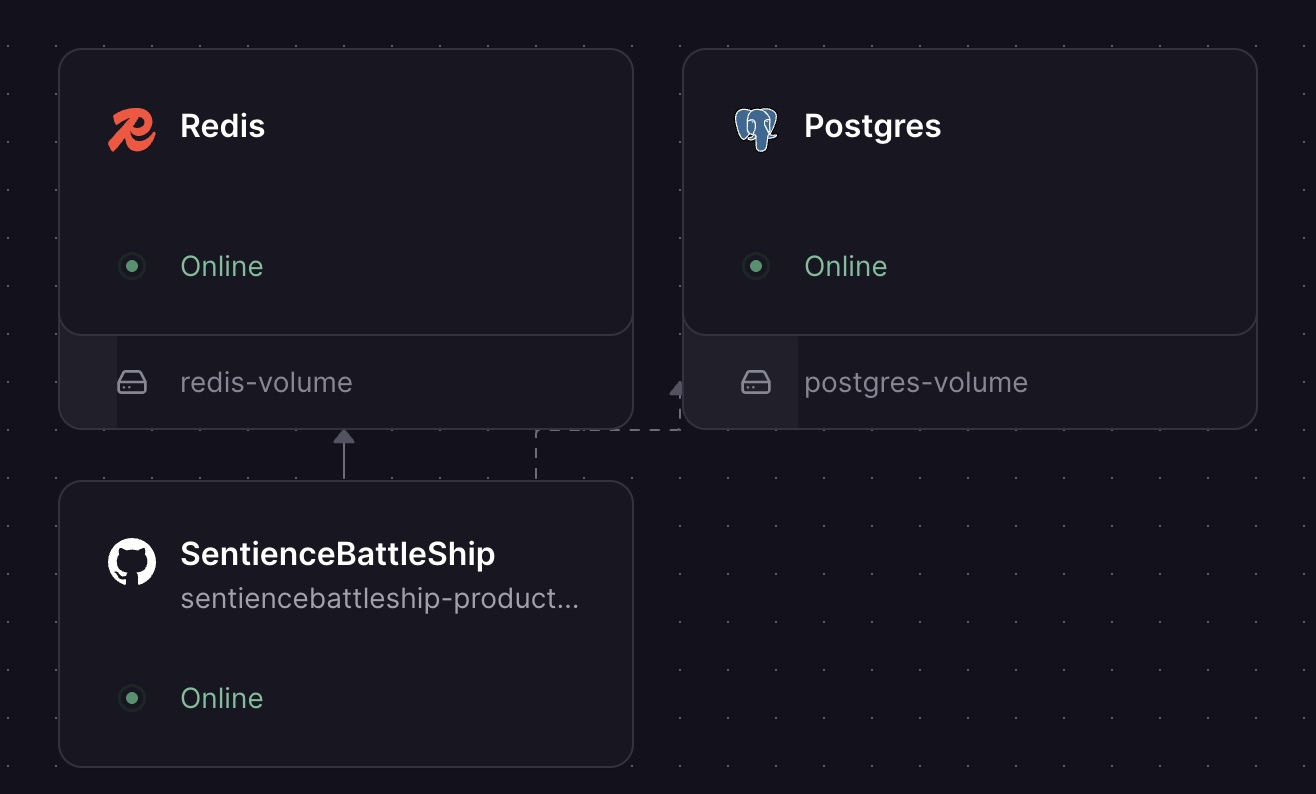
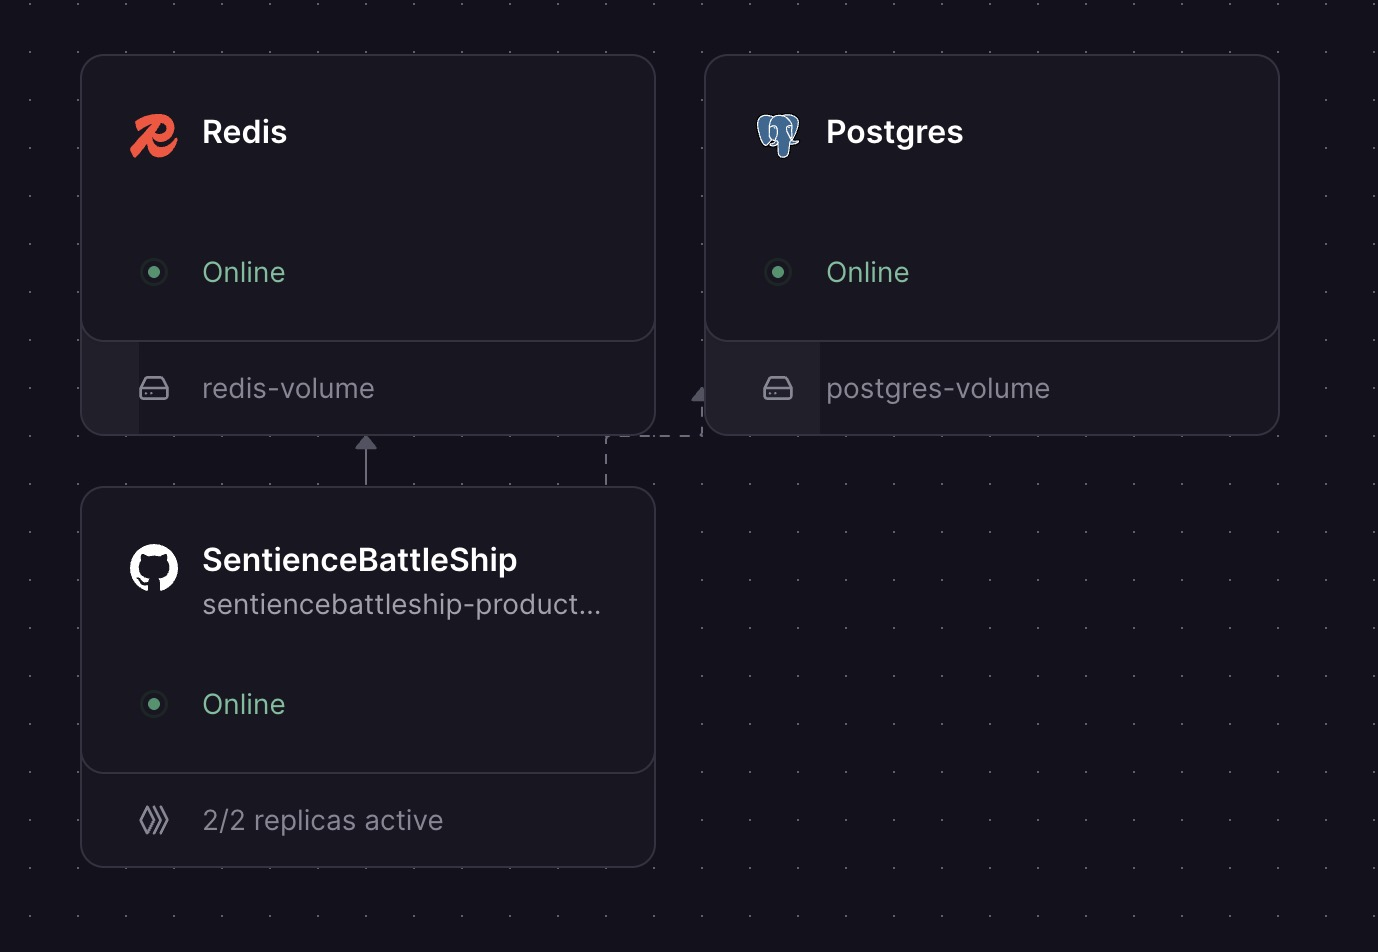
add multi-instance load test results to spike and README

diff --git a/SPIKE.md b/SPIKE.md
@@ -2,6 +2,8 @@
 
 Research spike exploring what it takes to scale a real-time Socket.IO game server horizontally. Started with a single-process Node.js server, ended with a Redis-coordinated multi-instance architecture backed by Postgres, with load test data identifying the bottleneck.
 
+**Results:** Identified Postgres as the bottleneck — removing it from the hot path (batching writes to end-of-game) improved single-instance capacity from 200 to 1,000 concurrent games (5×). Verified horizontal scaling with 2 instances: 1,500 concurrent games at p50=355ms with zero errors. Architecture scales linearly — add instances with no code changes.
+
 **Platform constraints:** All testing and deployment runs on Railway's free tier, which imposes resource limits on CPU, memory, and database performance. Postgres and Redis are shared managed instances — not dedicated hardware. In production, both could be scaled vertically (larger Postgres instances handle tens of thousands of concurrent connections; Redis can sustain 100k+ ops/sec on dedicated hardware). The bottlenecks identified in this spike are specific to the free-tier resource envelope. The goal was to maximize what a single instance can handle within these constraints, and to prove the architecture scales horizontally when vertical limits are reached.
 
 ## Architecture
@@ -298,6 +300,30 @@ Using 1,000 AI games / 500 multiplayer games per instance as the safe ceiling, w
 | 100,000 | 200,000 | 200 | 400 | ~300 |
 
 Redis is the shared coordination layer — all instances read/write game state through it, so adding instances is purely horizontal with no code changes.
+
+### Multi-Instance Validation (2 Instances)
+
+Deployed a second Railway replica to verify horizontal scaling. Both instances receive live traffic through Railway's load balancer, sharing game state via Redis.
+
+**Fix required:** Socket.IO's default HTTP long-polling handshake breaks across instances — the follow-up polling request hits the wrong instance and returns 400. Fixed by forcing WebSocket transport on the client (`transports: ['websocket']`), which establishes a single persistent connection and skips polling entirely.
+
+| Concurrent Games | Completed | Errors | p50 | p95 | p99 | Max |
+|---|---|---|---|---|---|---|
+| 1,000 | 1,000/1,000 | 0 | 256ms | 455ms | 496ms | 1,450ms |
+| 1,500 | 1,500/1,500 | 0 | 355ms | 608ms | 689ms | 905ms |
+| 2,000 | 1,425/2,000 | 575 | ~409ms | ~622ms | ~776ms | ~1,332ms |
+
+**1 instance vs 2 instances:**
+
+| Games | 1 instance (p50 / errors) | 2 instances (p50 / errors) |
+|---|---|---|
+| 1,000 | 112ms / 0 | 256ms / 0 |
+| 1,500 | 388ms / 2 | 355ms / 0 |
+| 2,000 | 679ms / 0 | 409ms / 575 |
+
+At 1,500 games, 2 instances beat single-instance on both latency and reliability. At 2,000, the 2-instance setup starts degrading — errors are evenly distributed across test processes, indicating the server ceiling rather than a coordination failure. The 2,000-game test was run as 4 parallel client processes (500 each) due to local machine limits at higher connection counts.
+
+Scaling is sub-linear (~1.5× capacity from 2× instances) due to Redis adapter overhead for cross-instance room broadcasts. Each `io.to(room).emit()` publishes through Redis so both instances' sockets receive the event — this adds latency that doesn't exist in single-process mode.
 
 ### Next Bottleneck: Redis
 

diff --git a/README.md b/README.md
@@ -29,9 +29,10 @@ Open `http://localhost:3000` in your browser.
 
 ## Scaling Spike
 
-Explored horizontal scaling for real-time Socket.IO across multiple Node.js instances coordinated through Redis. Key findings:
+Explored horizontal scaling for real-time Socket.IO across multiple Node.js instances coordinated through Redis.
 
 - Postgres in the hot path was the bottleneck — batching writes to end-of-game gave a **5× capacity improvement** (200 → 1,000 concurrent games per instance)
+- Verified with load tests: 2 instances handle **1,500 concurrent games** at p50=355ms with zero errors
 - Redis handles distributed locking, live game state, and cross-process Socket.IO rooms
 - Architecture scales horizontally — add instances with no code changes
 
